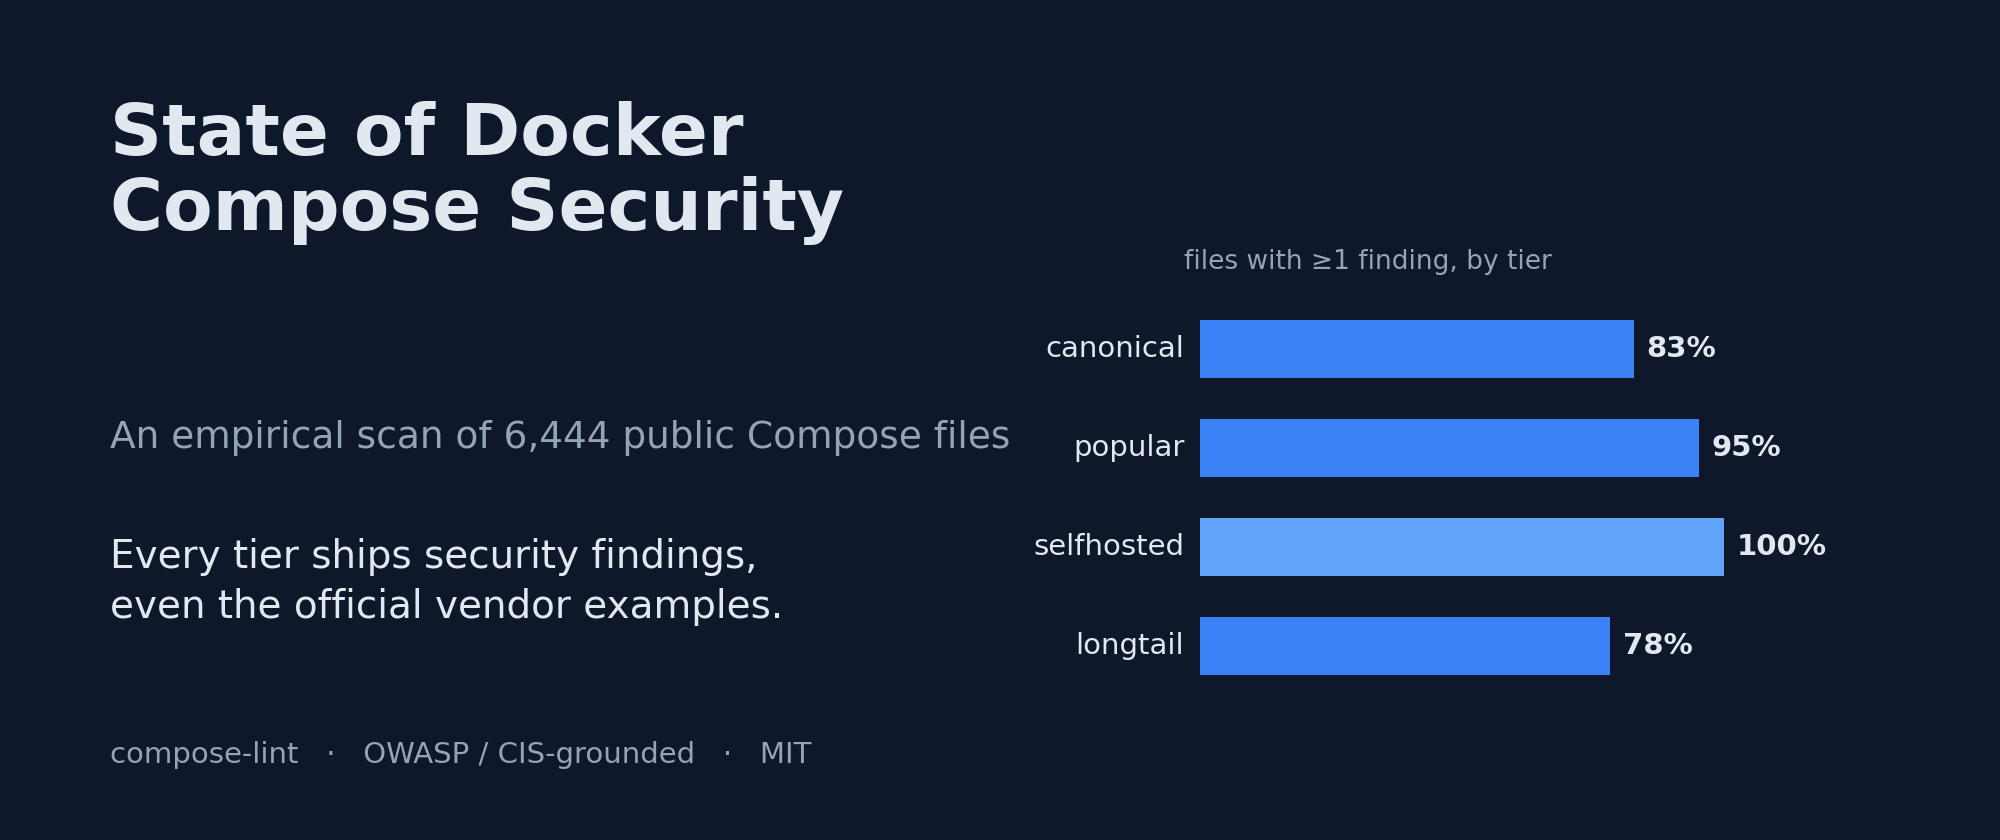
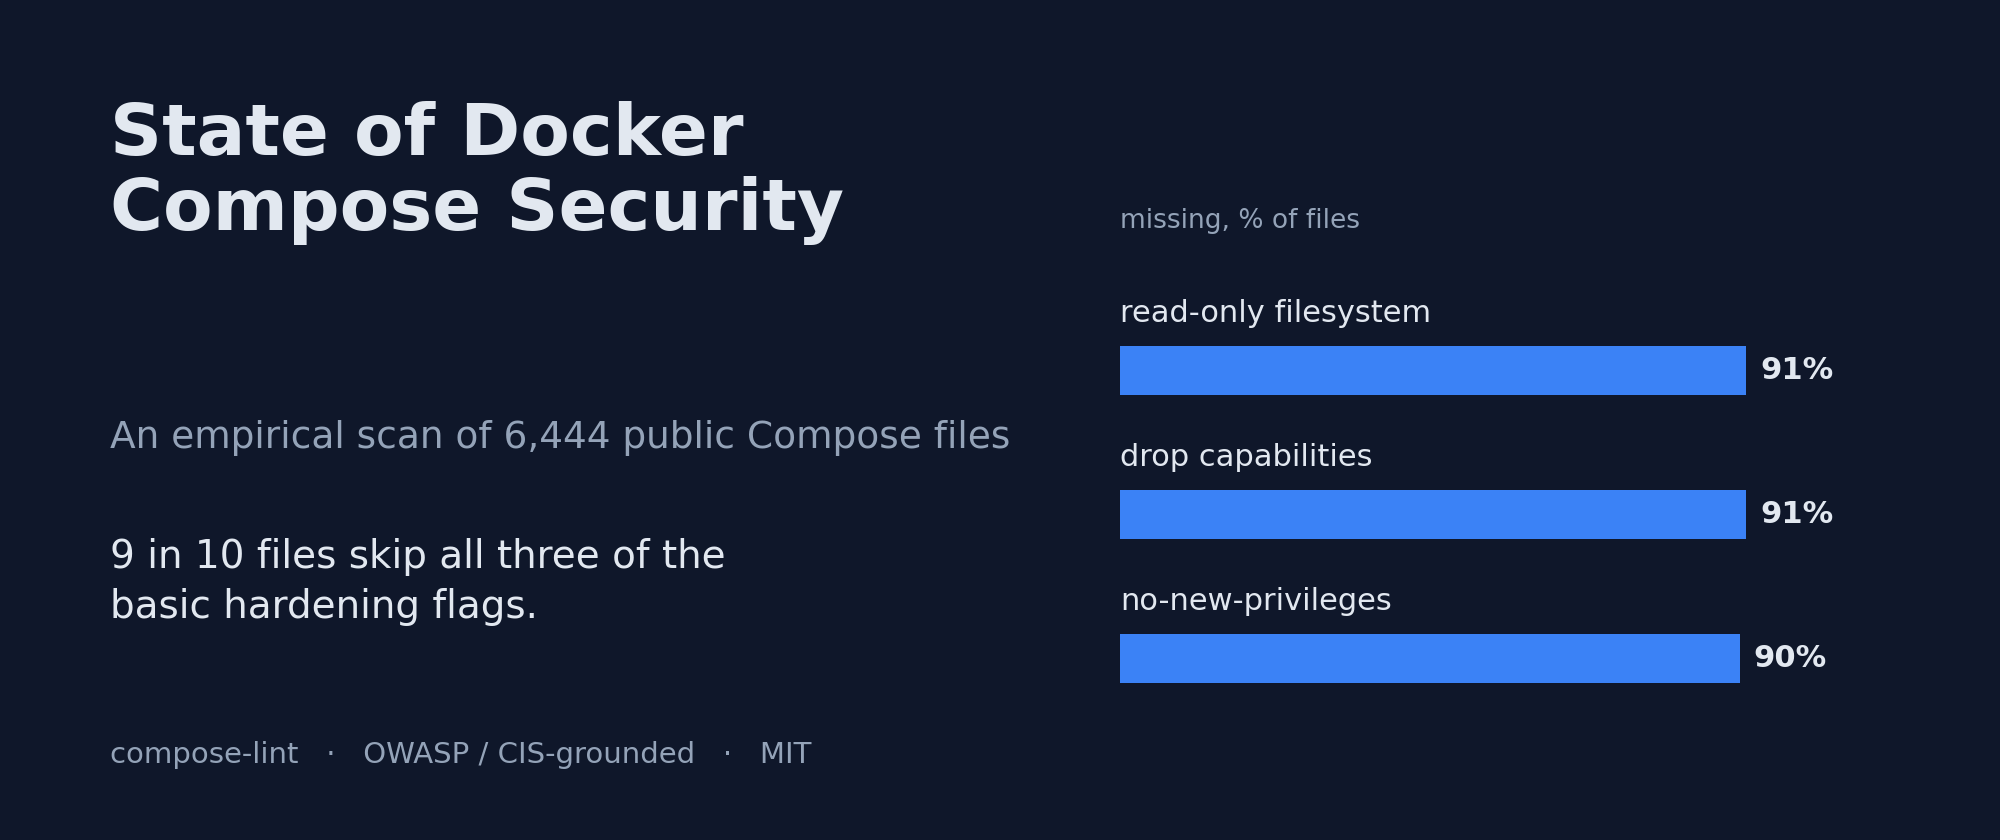
Make the cover the hardening triple, in plain language
The tier-breakdown cover showed a different stat than the post title and
used the internal tier slugs, which mean nothing out of context. Switch
the cover to the three ~90% hardening flags (read-only filesystem, drop
capabilities, no-new-privileges) with plain labels, so it reinforces the
'9 in 10 skip the basic flags' headline and reads with no methodology.
Still data-driven via --cover.

Changed region(s): [[0.527, 0.2476, 0.93, 0.8357], [0.062, 0.65, 0.403, 0.7429]]

diff --git a/scripts/corpus/charts.py b/scripts/corpus/charts.py
@@ -256,13 +256,21 @@ def chart_parse_error_rate(by_tier: dict[str, dict], run_dir: Path) -> tuple[plt
 def chart_cover(by_tier: dict[str, dict], run_dir: Path) -> tuple[plt.Figure, str]:
     """Blog cover banner (~1000x420). Dark theme, data-driven from the run.
 
-    Title + the per-tier finding-rate bars, so the cover refreshes with the
-    numbers like every other figure. Highlights the highest-rate tier.
+    Shows the "hardening triple" — the three ~90% controls the report leads
+    with — so the cover reinforces the headline. Plain-language labels so it
+    reads with no methodology, and it refreshes with the numbers.
     """
-    bg, fg, mute, blue, hi = "#0f172a", "#e2e8f0", "#94a3b8", "#3b82f6", "#60a5fa"
-    tiers = [t for t in TIER_ORDER if t in by_tier]
-    pct = [100 * by_tier[t]["with_findings"] / by_tier[t]["parsed"] for t in tiers]
+    bg, fg, mute, blue = "#0f172a", "#e2e8f0", "#94a3b8", "#3b82f6"
+    triple = [
+        ("CL-0007", "read-only filesystem"),
+        ("CL-0006", "drop capabilities"),
+        ("CL-0003", "no-new-privileges"),
+    ]
+    parsed = sum(b["parsed"] for b in by_tier.values())
     total = sum(b["total"] for b in by_tier.values())
+    files_per_rule: Counter[str] = Counter()
+    for b in by_tier.values():
+        files_per_rule.update(b["files_per_rule"])
 
     fig = plt.figure(figsize=(10, 4.2))
     fig.patch.set_facecolor(bg)
@@ -270,25 +278,27 @@ def chart_cover(by_tier: dict[str, dict], run_dir: Path) -> tuple[plt.Figure, st
              fontweight="bold", color=fg, va="top", linespacing=1.12)
     fig.text(0.055, 0.50, f"An empirical scan of {total:,} public Compose files",
              fontsize=13.5, color=mute, va="top")
-    fig.text(0.055, 0.36, "Every tier ships security findings,\neven the official vendor examples.",
+    fig.text(0.055, 0.36, "9 in 10 files skip all three of the\nbasic hardening flags.",
              fontsize=14, color=fg, va="top", linespacing=1.4)
     fig.text(0.055, 0.085, "compose-lint   ·   OWASP / CIS-grounded   ·   MIT",
              fontsize=10.5, color=mute, va="bottom")
 
-    ax = fig.add_axes((0.60, 0.16, 0.33, 0.56))
+    # One labelled bar per flag. Label sits above its bar so the full name fits.
+    ax = fig.add_axes((0.56, 0.13, 0.40, 0.66))
     ax.set_facecolor(bg)
-    ypos = list(range(len(tiers)))[::-1]
-    top = max(pct) if pct else -1
-    ax.barh(ypos, pct, height=0.58, color=[hi if p == top else blue for p in pct])
-    for yi, t, p in zip(ypos, tiers, pct):
-        ax.text(-3, yi, t, ha="right", va="center", color=fg, fontsize=10.5)
-        ax.text(p + 2.5, yi, f"{p:.0f}%", ha="left", va="center", color=fg,
-                fontsize=10.5, fontweight="bold")
-    ax.set_xlim(0, 126)
-    ax.set_ylim(-0.6, len(tiers) + 0.15)
+    n = len(triple)
+    for i, (rid, label) in enumerate(triple):
+        p = 100 * files_per_rule.get(rid, 0) / parsed if parsed else 0
+        y = n - 1 - i
+        ax.barh(y, p, height=0.34, color=blue)
+        ax.text(0, y + 0.30, label, ha="left", va="bottom", color=fg, fontsize=11)
+        ax.text(p + 2, y, f"{p:.0f}%", ha="left", va="center", color=fg,
+                fontsize=11, fontweight="bold")
+    ax.set_xlim(0, 116)
+    ax.set_ylim(-0.5, n + 0.35)
     ax.axis("off")
-    ax.text(-3, len(tiers) - 0.25, "files with ≥1 finding, by tier", color=mute,
-            fontsize=9.5, va="bottom", ha="left")
+    ax.text(0, n - 0.05, "missing, % of files", color=mute, fontsize=9.5,
+            va="bottom", ha="left")
     return fig, "cover"
 
 